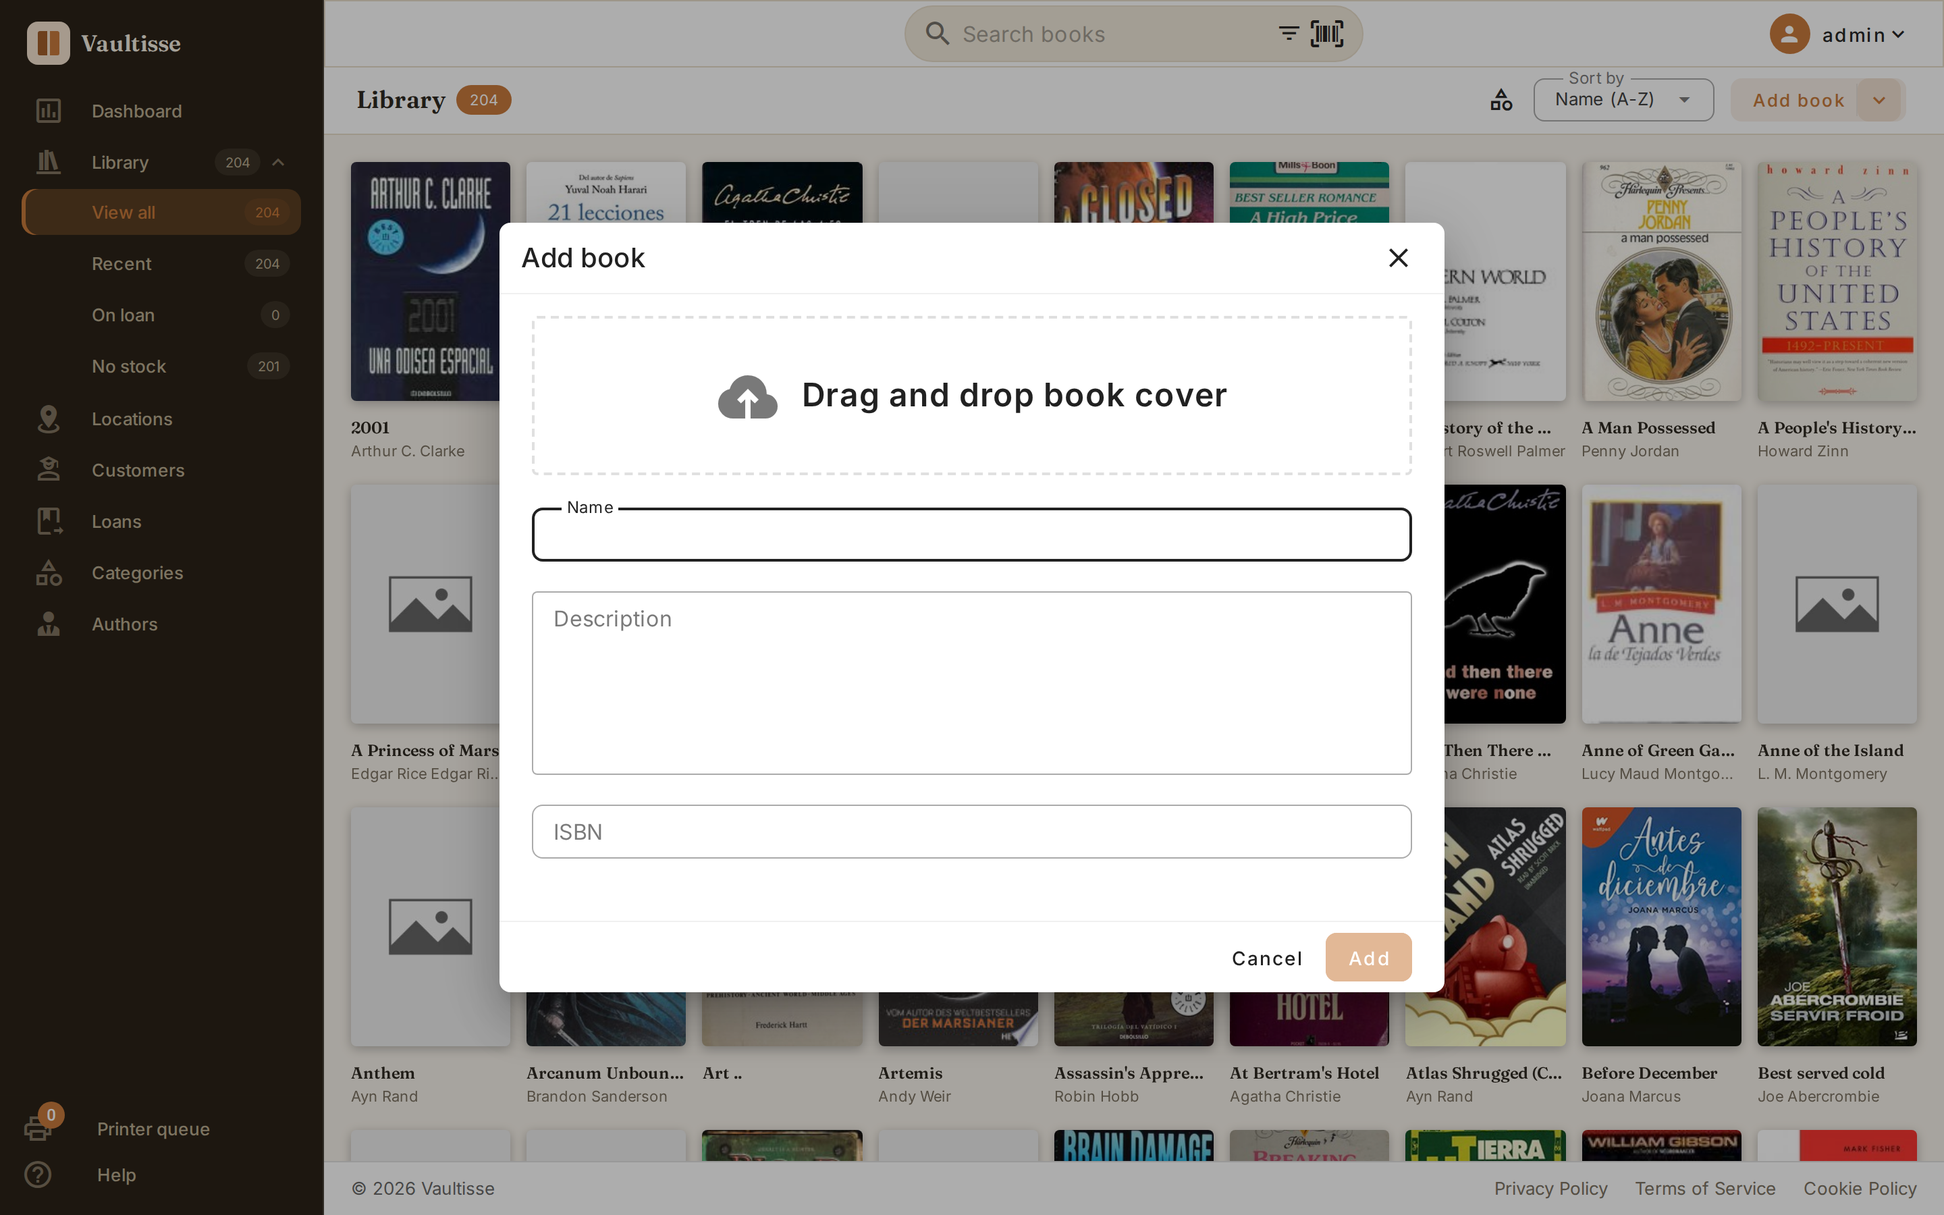
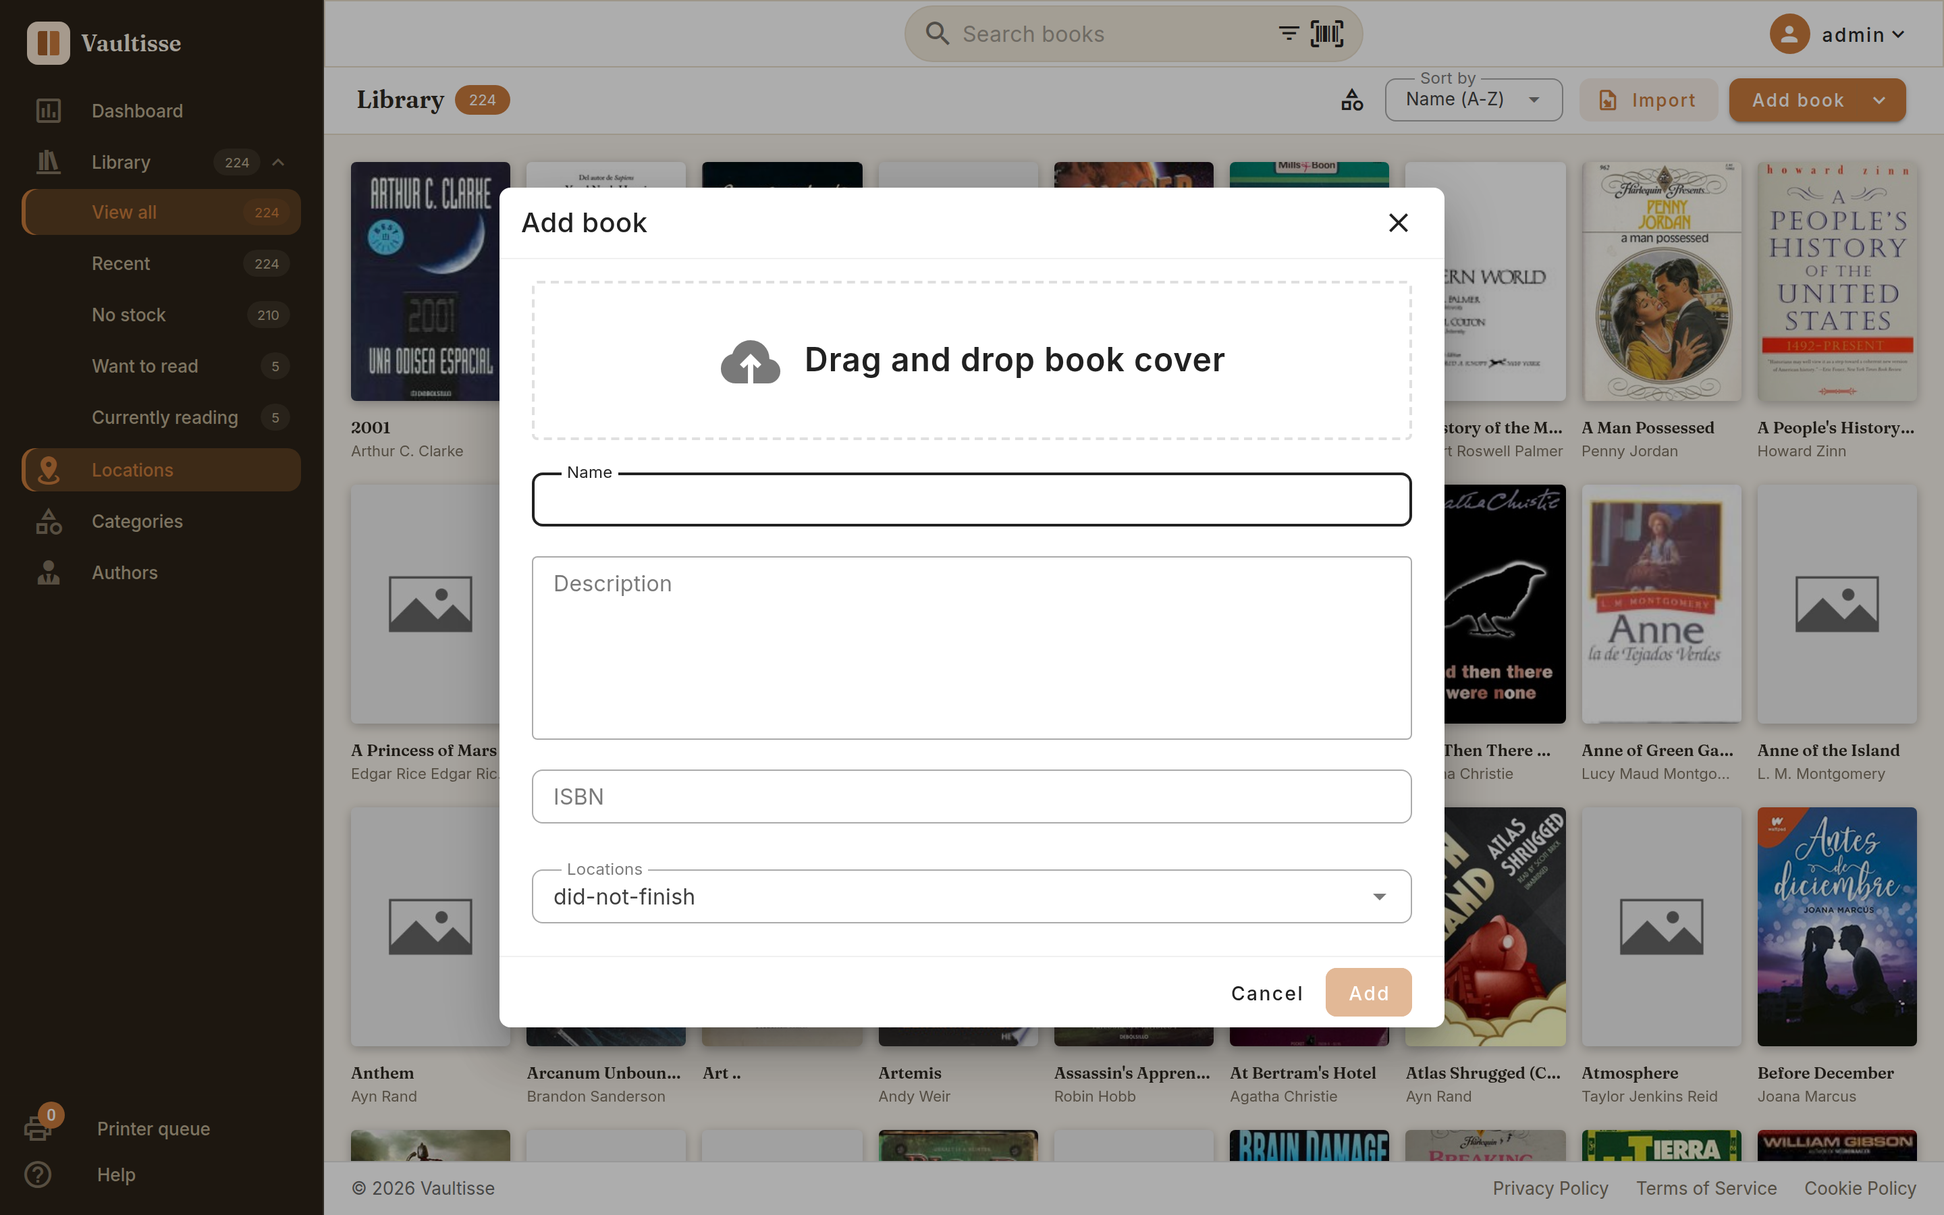
Document default locations and online cover lookup for existing books
Covers two recent Vaultisse features: marking a location as default
(pre-fills it when adding a book manually) and the "Find cover" button
that looks up a cover online for books that already exist but lack one.
Also refreshes the add-book-manually screenshot to show the new
Location field, and updates the ISBN-fallback tip now that cover
lookup tries a third source (LibraryThing).

Claude-Session: https://claude.ai/code/session_01A2HjTAhA8dcktAzHZY3sAh

diff --git a/docs/es/adding-books.md b/docs/es/adding-books.md
@@ -21,7 +21,7 @@ Mientras se procesa cada ISBN verás su estado junto a él en la lista:
 - Un icono de advertencia si no se ha encontrado ningún libro para ese ISBN.
 - Un icono de error si algo ha salido mal.
 
-> **Consejo:** Vaultisse busca el ISBN automáticamente usando bases de datos de libros en línea, recurriendo a una segunda fuente si la primera no tiene el libro. Si aun así no se encuentra un código, siempre puedes añadir ese título [manualmente](#add-manually).
+> **Consejo:** Vaultisse busca el ISBN automáticamente usando bases de datos de libros en línea, probando fuentes adicionales por orden si la primera no tiene el libro o su portada. Si aun así no se encuentra un código, siempre puedes añadir ese título [manualmente](#add-manually) — o [buscar su portada más adelante](./book-details#finding-a-cover-online), una vez el libro ya exista.
 
 ## Añadir manualmente {#add-manually}
 
@@ -32,6 +32,7 @@ Usa esta opción cuando un libro no tenga ISBN, o la búsqueda automática no lo
 1. Elige **Añadir libro manualmente** en el menú de **Añadir libro**.
 2. Opcionalmente, arrastra y suelta una **imagen de portada**.
 3. Rellena el **nombre** (obligatorio), una **descripción** y el **ISBN** si lo tienes.
-4. Haz clic en **Añadir**. Se te llevará directamente a la [página de detalle](./book-details) del nuevo libro para completar el resto — categoría, idioma, formato, autores y ejemplares físicos.
+4. Opcionalmente, elige una **ubicación** — viene preseleccionada con tu [ubicación por defecto](./locations#default-location) si has definido una; vacíala para añadir el libro sin ningún ejemplar.
+5. Haz clic en **Añadir**. Se te llevará directamente a la [página de detalle](./book-details) del nuevo libro para completar el resto — categoría, idioma, formato, autores y ejemplares físicos.
 
 En cualquiera de los dos casos, una vez creado el libro llegarás a su página de detalle, lista para añadir stock e imprimir etiquetas.

diff --git a/docs/it/adding-books.md b/docs/it/adding-books.md
@@ -21,7 +21,7 @@ Mentre ogni ISBN viene elaborato, ne vedrai lo stato accanto nell'elenco:
 - Un'icona di avviso se per quell'ISBN non è stato trovato alcun libro.
 - Un'icona di errore se qualcosa è andato storto.
 
-> **Suggerimento:** Vaultisse cerca automaticamente l'ISBN usando database di libri online, ricorrendo a una seconda fonte se la prima non ha il libro. Se un codice non viene comunque trovato, puoi sempre aggiungere quel titolo [manualmente](#add-manually).
+> **Suggerimento:** Vaultisse cerca automaticamente l'ISBN usando database di libri online, provando fonti aggiuntive in sequenza se la prima non ha il libro o la sua copertina. Se un codice non viene comunque trovato, puoi sempre aggiungere quel titolo [manualmente](#add-manually) — oppure [cercarne la copertina più avanti](./book-details#finding-a-cover-online), una volta che il libro esiste già.
 
 ## Aggiungi manualmente {#add-manually}
 
@@ -32,6 +32,7 @@ Usa questa opzione quando un libro non ha ISBN, o quando la ricerca automatica n
 1. Scegli **Aggiungi libro manualmente** dal menu **Aggiungi libro**.
 2. Facoltativamente trascina e rilascia un'**immagine di copertina**.
 3. Compila il **nome** (obbligatorio), una **descrizione** e l'**ISBN** se ne hai uno.
-4. Clicca su **Aggiungi**. Sarai portato direttamente alla [pagina di dettaglio](./book-details) del nuovo libro per completare il resto — categoria, lingua, formato, autori e copie fisiche.
+4. Facoltativamente scegli un'**ubicazione** — è preselezionata con la tua [ubicazione predefinita](./locations#default-location) se ne hai impostata una; svuota il campo per aggiungere il libro senza alcuna copia.
+5. Clicca su **Aggiungi**. Sarai portato direttamente alla [pagina di dettaglio](./book-details) del nuovo libro per completare il resto — categoria, lingua, formato, autori e copie fisiche.
 
 In entrambi i casi, una volta creato un libro arriverai alla sua pagina di dettaglio, pronta per aggiungere copie e stampare etichette.

diff --git a/docs/ca/adding-books.md b/docs/ca/adding-books.md
@@ -21,7 +21,7 @@ Mentre es processa cada ISBN, en veuràs l'estat al costat a la llista:
 - Una icona d'avís si no s'ha trobat cap llibre per a aquest ISBN.
 - Una icona d'error si alguna cosa ha anat malament.
 
-> **Consell:** Vaultisse cerca l'ISBN automàticament fent servir bases de dades de llibres en línia, i recorre a una segona font si la primera no té el llibre. Si tot i així no es pot trobar un codi, sempre pots afegir aquest títol [manualment](#add-manually).
+> **Consell:** Vaultisse cerca l'ISBN automàticament fent servir bases de dades de llibres en línia, i prova fonts addicionals per ordre si la primera no té el llibre o la seva portada. Si tot i així no es pot trobar un codi, sempre pots afegir aquest títol [manualment](#add-manually) — o [cercar-ne la portada més endavant](./book-details#finding-a-cover-online), un cop el llibre ja existeixi.
 
 ## Afegir manualment {#add-manually}
 
@@ -32,6 +32,7 @@ Fes servir aquesta opció quan un llibre no tingui ISBN, o quan la cerca automà
 1. Tria **Afegir llibre manualment** al menú **Afegir llibre**.
 2. Opcionalment, arrossega i deixa anar una **imatge de portada**.
 3. Omple el **nom** (obligatori), una **descripció** i l'**ISBN** si en tens un.
-4. Fes clic a **Afegir**. Aniràs directament a la [pàgina de detalls](./book-details) del nou llibre per completar la resta — categoria, idioma, format, autors i exemplars físics.
+4. Opcionalment, tria una **ubicació** — ve preseleccionada amb la teva [ubicació per defecte](./locations#default-location) si n'has definit una; buida el camp per afegir el llibre sense cap exemplar.
+5. Fes clic a **Afegir**. Aniràs directament a la [pàgina de detalls](./book-details) del nou llibre per completar la resta — categoria, idioma, format, autors i exemplars físics.
 
 Sigui quin sigui el mètode, un cop creat el llibre acabaràs a la seva pàgina de detalls, a punt per afegir estoc i imprimir etiquetes.

diff --git a/docs/adding-books.md b/docs/adding-books.md
@@ -21,7 +21,7 @@ While each ISBN is processed you'll see its status next to it in the list:
 - A warning icon if no book could be found for that ISBN.
 - An error icon if something went wrong.
 
-> **Tip:** Vaultisse looks the ISBN up automatically using online book databases, falling back to a second source if the first one doesn't have the book. If a code still can't be found, you can always add that title [manually](#add-manually) instead.
+> **Tip:** Vaultisse looks the ISBN up automatically using online book databases, trying additional sources in turn if the first one doesn't have the book or its cover. If a code still can't be found, you can always add that title [manually](#add-manually) instead — or [look up its cover later](./book-details#finding-a-cover-online) once the book exists.
 
 ## Add manually {#add-manually}
 
@@ -32,6 +32,7 @@ Use this when a book has no ISBN, or the automatic lookup couldn't find it.
 1. Choose **Add book manually** from the **Add book** menu.
 2. Optionally drag and drop a **cover image**.
 3. Fill in the **name** (required), a **description**, and the **ISBN** if you have one.
-4. Click **Add**. You'll be taken straight to the new book's [detail page](./book-details) to fill in the rest — category, language, format, authors, and physical copies.
+4. Optionally choose a **location** — it's pre-filled with your [default location](./locations#default-location) if you've set one; clear it to add the book without a physical copy.
+5. Click **Add**. You'll be taken straight to the new book's [detail page](./book-details) to fill in the rest — category, language, format, authors, and physical copies.
 
 Either way, once a book is created you'll land on its detail page, ready to add stock and print labels.

diff --git a/docs/it/locations.md b/docs/it/locations.md
@@ -14,11 +14,19 @@ La pagina **Ubicazioni** elenca ogni ubicazione come una propria scheda, con la 
 - Usa ✏ per modificare un'ubicazione, o 🗑 per eliminarla (con conferma).
 - Espandi la scheda di un'ubicazione per vedere i **libri conservati lì**.
 
+## Ubicazione predefinita {#default-location}
+
+Clicca sulla ⭐ accanto a qualsiasi ubicazione per contrassegnarla come **Predefinita** — solo un'ubicazione alla volta può avere questo badge.
+
+![La pagina Ubicazioni, con un'ubicazione contrassegnata come Predefinita](/screenshots/locations-default.png)
+
+La tua ubicazione predefinita viene preselezionata ogni volta che [aggiungi un libro manualmente](./adding-books#add-manually), così una copia fisica viene creata automaticamente lì a meno che tu non ne scelga un'altra (o svuoti il campo per aggiungere il libro senza alcuna copia). È utile se la maggior parte dei nuovi arrivi finisce sempre nello stesso posto.
+
 ## Usare le ubicazioni
 
 Una volta creata, un'ubicazione diventa disponibile ovunque tu assegni una copia fisica a un luogo:
 
-- Selezionando un'ubicazione durante l'[aggiunta di un libro tramite ISBN](./adding-books).
+- Selezionando un'ubicazione durante l'[aggiunta di un libro tramite ISBN o manualmente](./adding-books).
 - Scegliendo un'ubicazione durante l'[aggiunta o la modifica di una copia](./book-details) sulla pagina di un libro.
 - Automaticamente, una per ogni scaffale personalizzato, [importando da Goodreads](./importing-books#importare-da-goodreads).
 

diff --git a/docs/es/locations.md b/docs/es/locations.md
@@ -14,11 +14,19 @@ La página de **Ubicaciones** muestra cada ubicación como su propia tarjeta, co
 - Usa ✏ para editar una ubicación, o 🗑 para eliminarla (con confirmación).
 - Expande la tarjeta de una ubicación para ver los **libros almacenados allí**.
 
+## Ubicación por defecto {#default-location}
+
+Haz clic en la ⭐ junto a cualquier ubicación para marcarla como **Por defecto** — solo una ubicación puede tener esta insignia a la vez.
+
+![La página de Ubicaciones, con una ubicación marcada como Por defecto](/screenshots/locations-default.png)
+
+Tu ubicación por defecto queda preseleccionada siempre que [añades un libro manualmente](./adding-books#add-manually), de modo que se crea automáticamente un ejemplar allí a menos que elijas otra (o vacíes el campo para añadir el libro sin ningún ejemplar). Es útil si la mayoría de novedades acaban siempre en el mismo sitio.
+
 ## Usar ubicaciones
 
 Una vez creada, una ubicación está disponible en cualquier lugar donde asignes un ejemplar físico a un sitio:
 
-- Al seleccionar una ubicación mientras [añades un libro por ISBN](./adding-books).
+- Al seleccionar una ubicación mientras [añades un libro por ISBN o manualmente](./adding-books).
 - Al elegir una ubicación al [añadir o editar un ejemplar de stock](./book-details) en la página de un libro.
 - Automáticamente, una por cada estante personalizado, al [importar desde Goodreads](./importing-books#importar-desde-goodreads).
 

diff --git a/docs/ca/locations.md b/docs/ca/locations.md
@@ -14,11 +14,19 @@ La pàgina d'**Ubicacions** llista totes les ubicacions com a targetes pròpies,
 - Fes servir ✏ per editar una ubicació, o 🗑 per eliminar-la (amb confirmació).
 - Expandeix la targeta d'una ubicació per veure els **llibres que s'hi guarden**.
 
+## Ubicació per defecte {#default-location}
+
+Fes clic a l'⭐ al costat de qualsevol ubicació per marcar-la com a **Per defecte** — només una ubicació pot tenir aquesta insígnia alhora.
+
+![La pàgina d'Ubicacions, amb una ubicació marcada com a Per defecte](/screenshots/locations-default.png)
+
+La teva ubicació per defecte queda preseleccionada sempre que [afegeixes un llibre manualment](./adding-books#add-manually), de manera que s'hi crea automàticament un exemplar tret que en triïs una altra (o buidis el camp per afegir el llibre sense cap exemplar). És útil si la majoria de novetats acaben sempre al mateix lloc.
+
 ## Fer servir les ubicacions
 
 Un cop creada, una ubicació queda disponible allà on assignis un exemplar físic a un lloc:
 
-- En seleccionar una ubicació mentre [afegeixes un llibre per ISBN](./adding-books).
+- En seleccionar una ubicació mentre [afegeixes un llibre per ISBN o manualment](./adding-books).
 - En triar una ubicació en [afegir o editar un exemplar d'estoc](./book-details) a la pàgina d'un llibre.
 - Automàticament, una per cada prestatge personalitzat, en [importar des de Goodreads](./importing-books#importar-des-de-goodreads).
 

diff --git a/docs/it/book-details.md b/docs/it/book-details.md
@@ -18,6 +18,14 @@ Clicca su **Modifica** per trasformare tutto questo in un modulo compilabile:
 
 Durante la modifica, i pulsanti in alto a destra diventano **Annulla** (scarta le modifiche) e **Salva** (che diventa attivo solo dopo aver effettivamente cambiato qualcosa). L'**icona del cestino** accanto elimina completamente il libro, in entrambe le modalità — ti verrà chiesta prima una conferma.
 
+### Cercare una copertina online {#finding-a-cover-online}
+
+Se un libro ha l'**ISBN** ma non ha ancora una copertina, nell'area immagine vuota compare un pulsante **Cerca copertina** — utile per i titoli aggiunti manualmente o per quelli la cui ricerca automatica tramite ISBN non aveva trovato un'immagine al momento.
+
+![Un libro senza ancora una copertina, con il pulsante Cerca copertina visibile](/screenshots/book-find-cover.png)
+
+Cliccalo e Vaultisse ne cercherà una online al posto tuo, provando più fonti in sequenza finché non ne trova una. Se nessuna di esse ha una copertina per quell'ISBN, vedrai un messaggio che te lo segnala — puoi comunque aggiungerne una tu trascinando un'immagine nell'area della copertina.
+
 ## Stato di lettura
 
 Tieni traccia dei tuoi progressi di lettura personali per un libro, indipendentemente dallo stato del suo stock — questo riguarda se *tu* lo hai letto, non se una copia è in prestito.

diff --git a/docs/es/book-details.md b/docs/es/book-details.md
@@ -18,6 +18,14 @@ Haz clic en **Editar** para convertir todo eso en un formulario editable:
 
 Mientras editas, los botones de la esquina superior derecha pasan a ser **Cancelar** (descarta tus cambios) y **Guardar** (que solo se activa una vez has cambiado algo de verdad). El **icono de papelera** junto a ellos elimina el libro por completo, en cualquiera de los dos modos — se te pedirá confirmación antes.
 
+### Buscar una portada en línea {#finding-a-cover-online}
+
+Si un libro tiene **ISBN** pero todavía no tiene portada, aparece un botón **Buscar portada** en el área de imagen vacía — útil para títulos añadidos manualmente o para aquellos cuya búsqueda automática por ISBN no encontró ninguna imagen en su momento.
+
+![Un libro sin portada todavía, mostrando el botón Buscar portada](/screenshots/book-find-cover.png)
+
+Haz clic en él y Vaultisse buscará una en línea por ti, probando varias fuentes por orden hasta encontrar una coincidencia. Si ninguna tiene portada para ese ISBN, verás un mensaje que te lo indica — aun así puedes añadir una tú mismo arrastrando una imagen al área de la portada.
+
 ## Estado de lectura
 
 Controla tu propio progreso de lectura de un libro, independiente del estado de su stock — esto trata de si *tú* lo has leído, no de si un ejemplar está prestado.

diff --git a/docs/ca/book-details.md b/docs/ca/book-details.md
@@ -18,6 +18,14 @@ Fes clic a **Editar** per convertir tot això en un formulari editable:
 
 Mentre edites, els botons de dalt a la dreta es converteixen en **Cancel·la** (descarta els canvis) i **Desar** (que només s'activa un cop has canviat realment alguna cosa). La **icona de paperera** del costat elimina el llibre completament, en qualsevol dels dos modes — se't demanarà confirmació prèviament.
 
+### Cercar una portada en línia {#finding-a-cover-online}
+
+Si un llibre té **ISBN** però encara no té portada, apareix un botó **Cerca coberta** a l'àrea d'imatge buida — útil per a títols afegits manualment o per a aquells la cerca automàtica per ISBN dels quals no va trobar cap imatge en el seu moment.
+
+![Un llibre sense portada, mostrant el botó Cerca coberta](/screenshots/book-find-cover.png)
+
+Fes-hi clic i Vaultisse en cerca una en línia per tu, provant diverses fonts per ordre fins que en troba una. Si cap d'elles té portada per a aquest ISBN, veuràs un missatge que t'ho indica — igualment pots afegir-ne una tu mateix arrossegant una imatge a l'àrea de la portada.
+
 ## Estat de lectura
 
 Fes un seguiment del teu propi progrés de lectura d'un llibre, independent de l'estat del seu estoc — això és sobre si *tu* l'has llegit, no sobre si un exemplar està en préstec.

diff --git a/docs/locations.md b/docs/locations.md
@@ -14,11 +14,19 @@ The **Locations** page lists every location as its own card, with its **descript
 - Use ✏ to edit a location, or 🗑 to delete it (with confirmation).
 - Expand a location's card to see the **books stored there**.
 
+## Default location
+
+Click the ⭐ next to any location to mark it **Default** — only one location can hold that badge at a time.
+
+![The Locations page, with one location marked as Default](/screenshots/locations-default.png)
+
+Your default location is pre-selected whenever you [add a book manually](./adding-books#add-manually), so a physical copy is created there automatically unless you pick a different one (or clear the field to add the book without any stock). It's handy if most new arrivals end up in the same place.
+
 ## Using locations
 
 Once created, a location becomes available wherever you assign a physical copy to a place:
 
-- Selecting a location while [adding a book by ISBN](./adding-books).
+- Selecting a location while [adding a book by ISBN or manually](./adding-books).
 - Choosing a location when [adding or editing a stock copy](./book-details) on a book's page.
 - Automatically, one per custom shelf, when [importing from Goodreads](./importing-books#importing-from-goodreads).
 

diff --git a/docs/book-details.md b/docs/book-details.md
@@ -18,6 +18,14 @@ Click **Edit** to turn all of that into an editable form:
 
 While editing, the top-right buttons become **Cancel** (discard your changes) and **Save** (which only becomes active once you've actually changed something). The **trash icon** next to them deletes the book entirely, in either mode — you'll be asked to confirm first.
 
+### Finding a cover online
+
+If a book has an **ISBN** but no cover yet, a **Find cover** button appears in the empty image area — handy for titles added manually or ones whose automatic ISBN lookup didn't turn up an image at the time.
+
+![A book with no cover yet, showing the Find cover button](/screenshots/book-find-cover.png)
+
+Click it and Vaultisse looks one up online for you, trying multiple sources in turn until it finds a match. If none of them have a cover for that ISBN, you'll see a message saying so — you can still add one yourself by dragging an image onto the cover area.
+
 ## Reading status
 
 Track your own personal reading progress on a book, separate from its stock status — this is about whether *you* have read it, not whether a copy is out on loan.
